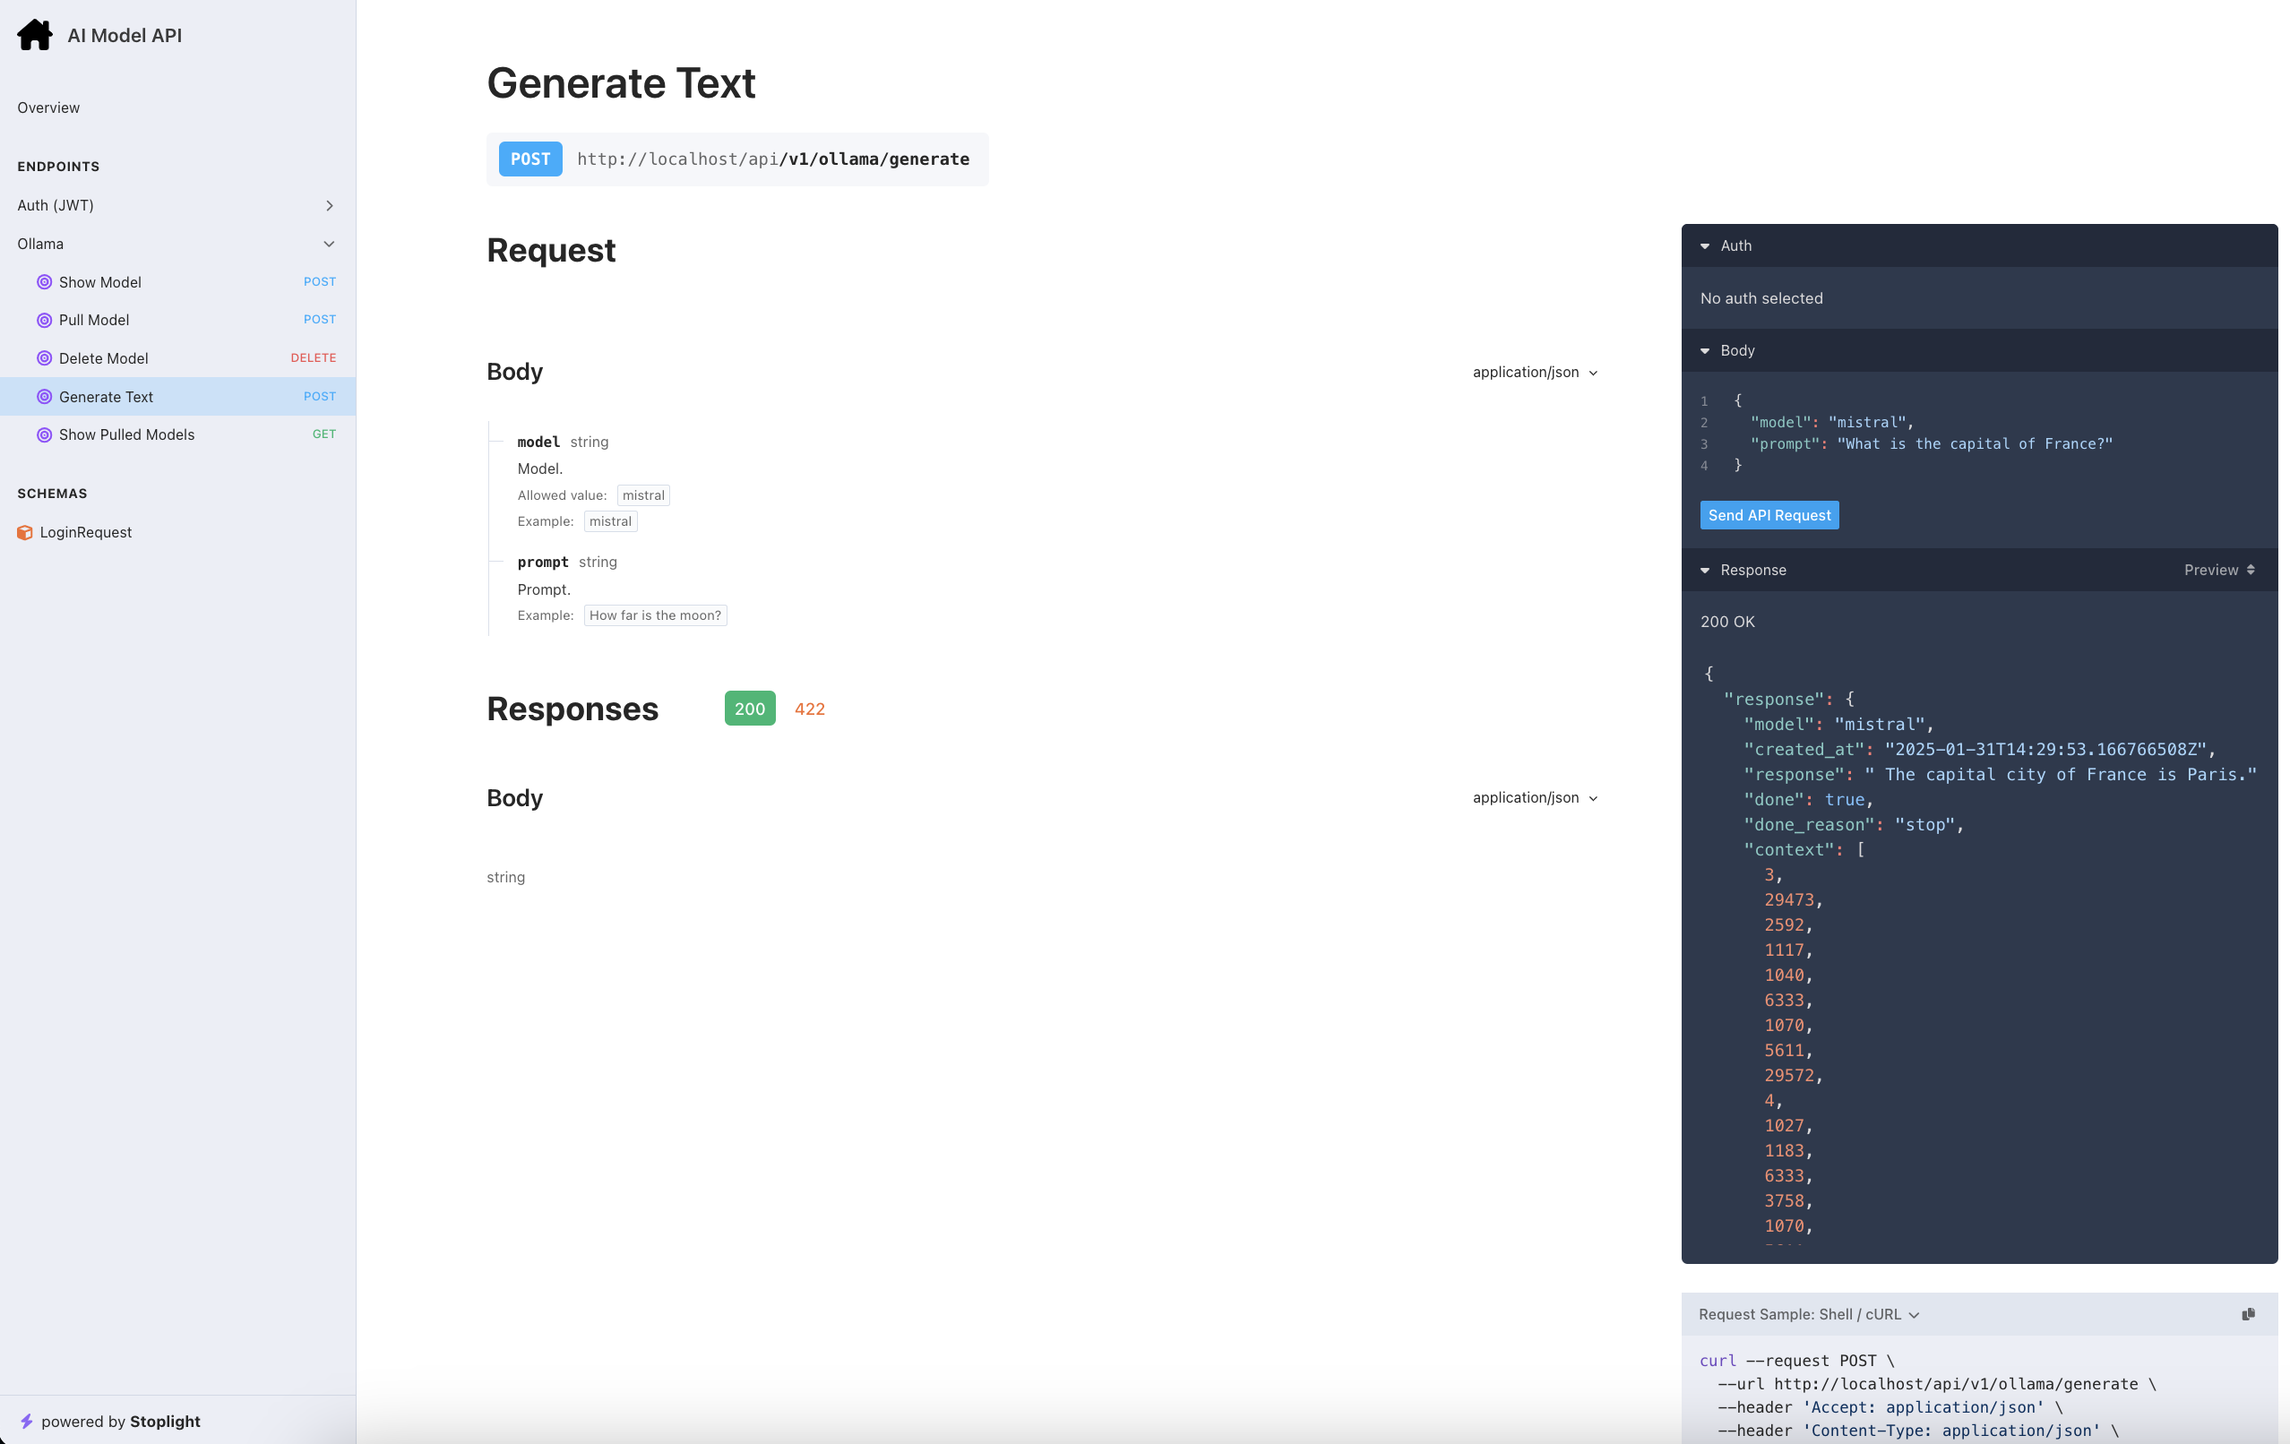
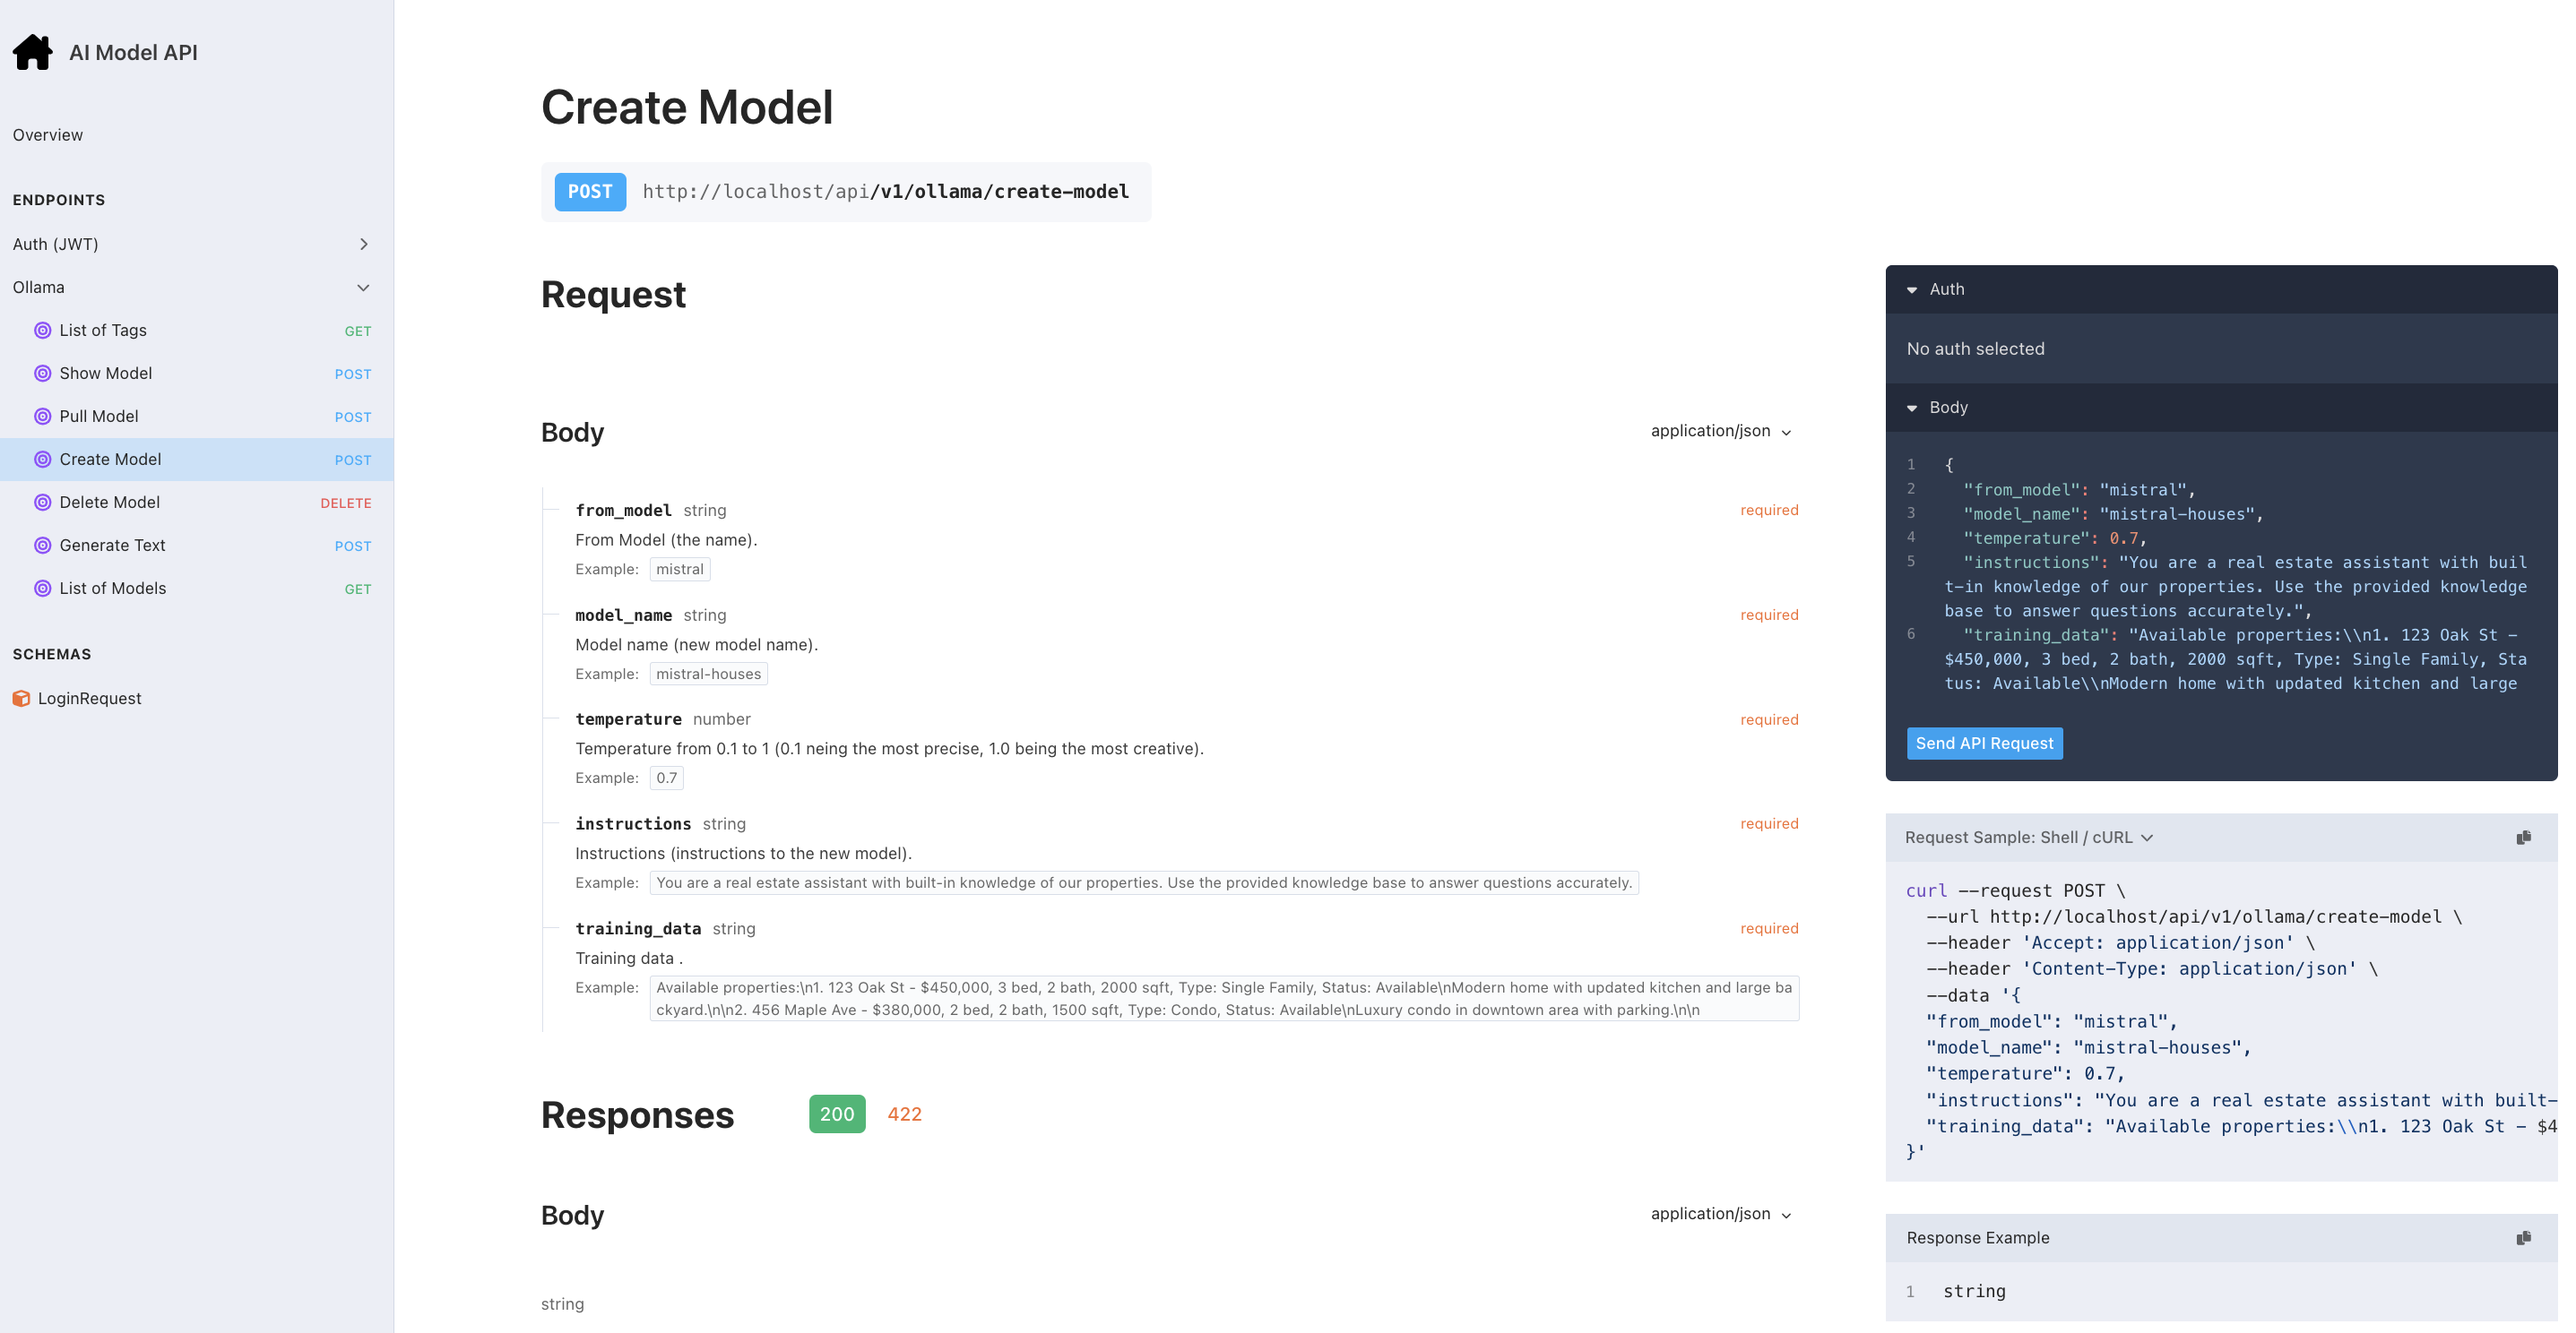
API updates for ollama

diff --git a/app/Http/Controllers/Api/v1/OllamaController.php b/app/Http/Controllers/Api/v1/OllamaController.php
@@ -9,6 +9,7 @@ use Illuminate\Http\Response;
 use App\Services\AIModelService;
 use Http;
 use Storage;
+use Symfony\Component\HttpFoundation\StreamedResponse;
 use Log;
 
 class OllamaController extends Controller
@@ -32,12 +33,19 @@ class OllamaController extends Controller
              *
              * @example mistral
              */
-            'name' => 'in:mistral',
+            'name' => 'in:'.config('ai.ollama_allowed_models'),
+
+            /**
+             * Stream the pull request.
+             *
+             * @example true
+             */
+            'stream' => 'bool',
         ]);
 
-        $this->aiModelService->pullModel(name: $request->input('name'));
-        
-        return response([])->setStatusCode(Response::HTTP_NO_CONTENT);
+        $response = $this->aiModelService->pullModel(name: $request->input('name'), stream: $request->input('stream') ? true : false);
+
+        return $response;
     }
 
     /**
@@ -81,17 +89,83 @@ class OllamaController extends Controller
         
         return response()->json($response->json())->setStatusCode($response->status());
     }
-    
 
     /**
-     * Show Pulled Models
+     * Create Model
      *
      * @unauthenticated
      */
-    public function showModels(Request $request)
+    public function createModel(Request $request)
+    {
+        $request->validate([
+            /**
+             * From Model (the name).
+             *
+             * @example mistral
+             */
+            'from_model' => 'required|string',
+
+            /**
+             * Model name (new model name).
+             *
+             * @example mistral-houses
+             */
+            'model_name' => 'required|string',
+
+            /**
+             * Temperature from 0.1 to 1 (0.1 neing the most precise, 1.0 being the most creative).
+             *
+             * @example 0.7
+             */
+            'temperature' => 'required|decimal:1|between:0.1,1',
+
+            /**
+             * Instructions (instructions to the new model).
+             *
+             * @example You are a real estate assistant with built-in knowledge of our properties. Use the provided knowledge base to answer questions accurately.
+             */
+            'instructions' => 'required|string',
+
+            /**
+             * Training data .
+             *
+             * @example Available properties:\n1. 123 Oak St - $450,000, 3 bed, 2 bath, 2000 sqft, Type: Single Family, Status: Available\nModern home with updated kitchen and large backyard.\n\n2. 456 Maple Ave - $380,000, 2 bed, 2 bath, 1500 sqft, Type: Condo, Status: Available\nLuxury condo in downtown area with parking.\n\n
+             */
+            'training_data' => 'required|string',
+        ]);
+
+        $response = $this->aiModelService->createModel(
+            fromModel: $request->input('from_model'),
+            modelName: $request->input('model_name'),
+            temperature: $request->input('temperature'),
+            system: $request->input('instructions'),
+            trainingData: $request->input('training_data')
+        );
+
+        return response()->json($response->json())->setStatusCode($response->status());
+    }
+
+    /**
+     * List of Models
+     *
+     * @unauthenticated
+     */
+    public function indexModels(Request $request)
+    {
+        $response = $this->aiModelService->models();
+     
+        return response(['response' => $response->json()])->setStatusCode($response->status());
+    }
+
+    /**
+     * List of Tags 
+     *
+     * @unauthenticated
+     */
+    public function indexTags(Request $request)
     {
        
-        $response = $this->aiModelService->models();
+        $response = $this->aiModelService->tags();
      
         return response(['response' => $response->json()])->setStatusCode($response->status());
     }
@@ -101,7 +175,7 @@ class OllamaController extends Controller
      *
      * @unauthenticated
      */
-    public function generateText(Request $request)
+    public function generateText(Request $request) : Response|StreamedResponse
     {
         $request->validate([
             /**
@@ -109,21 +183,36 @@ class OllamaController extends Controller
              *
              * @example mistral
              */
-            'model' => 'in:mistral',
+            'model' => 'required|string',
 
             /**
              * Prompt.
              *
              * @example How far is the moon?
              */
-            'prompt' => 'string',
+            'prompt' => 'required|string',
+
+            /**
+             * Stream the request.
+             *
+             * @example true
+             */
+            'stream' => 'bool',
         ]);
+
+        $stream = $request->input('stream') ? true : false;
 
         $response = $this->aiModelService->generate(
             model: $request->input('model'),
-            prompt: $request->input('prompt')
+            prompt: $request->input('prompt'),
+            stream: $stream
         );
-        
-        return response(['response' => $response->json()])->setStatusCode($response->status());
+
+        if(!$stream)
+        {
+            return response(['response' => $response->json()])->setStatusCode($response->status());
+        }
+
+        return $response;
     }
 }

diff --git a/app/Services/AIModelService.php b/app/Services/AIModelService.php
@@ -2,10 +2,11 @@
 
 namespace App\Services;
 
-// 6⃣	/api/create	Create a custom model
-// 8⃣	/api/push	Upload a model
 use Illuminate\Http\Client\Response;
 use Illuminate\Support\Facades\Http;
+use Symfony\Component\HttpFoundation\StreamedResponse;
+use Storage;
+use Log;
 
 class AIModelService
 {
@@ -14,13 +15,47 @@ class AIModelService
         $this->clientPath = config('ai.text_client_path');
     }
 
-    public function pullModel(string $name): void
+    public function pullModel(string $name, bool $stream = true): Response|StreamedResponse
     {
-        //TODO should stream, stream: true
-        $response = Http::timeout(60)->post($this->clientPath.'/api/pull', [
-            'name' => $name,
+        //if stream is disabled
+        if(!$stream)
+        {
+
+            $response = Http::timeout(60)->post($this->clientPath.'/api/pull', [
+                'name' => $name,
+                'stream' => false
+            ]);
+
+            return $response;
+        }
+
+        return $this->streamCall(fn() => Http::withOptions(['stream' => true])
+            ->post($this->clientPath.'/api/pull', ['name' => $name])
+            ->body()
+        );
+    }
+
+    /**
+     * string $name e.g. mistral-houses
+     * string $system e.g. You are a real estate assistant with built-in knowledge of our properties. Use the provided knowledge base to answer questions accurately.
+     * string $trainingData e.g. Available properties:\n1. 123 Oak St - $450,000, 3 bed, 2 bath, 2000 sqft, Type: Single Family, Status: Available\nModern home with updated kitchen and large backyard.\n\n2. 456 Maple Ave - $380,000, 2 bed, 2 bath, 1500 sqft, Type: Condo, Status: Available\nLuxury condo in downtown area with parking.\n\n
+     */
+    public function createModel(string $fromModel, string $modelName, float $temperature, string $system, string $trainingData): Response
+    {
+        $response = Http::timeout(60)->post($this->clientPath.'/api/create', [
+            'name' => $modelName,
+            'from' => $fromModel,
+            'system' => $system,
+            'template' => "{{ .System }}\n\nKnowledge Base:\n{{ .PropertyData }}\n\nQuestion: {{ .Prompt }}",
+            'parameter'=> [
+               'temperature' => $temperature,
+               'num_ctx' => 4096
+            ],
+            'propertyData'=> $trainingData,
             'stream' => false
         ]);
+
+        return $response;
     }
 
     public function deleteModel(string $name): Response
@@ -43,15 +78,28 @@ class AIModelService
         return $response;
     }
 
-    public function generate(string $model, string $prompt): Response
+    public function generate(string $model, string $prompt, bool $stream = false): Response|StreamedResponse
     {
-        $response = Http::timeout(60)->post($this->clientPath.'/api/generate', [
-            'model' => $model,
-            'prompt' => $prompt,
-            'stream' => false
-        ]);
+        if(!$stream)
+        {
+
+            $response = Http::timeout(60)->post($this->clientPath.'/api/generate', [
+                'model' => $model,
+                'prompt' => $prompt,
+                'stream' => false
+            ]);
+
+            return $response;
+        }
         
-        return $response;
+
+        return $this->streamCall(fn() => Http::withOptions(['stream' => true])
+            ->post($this->clientPath.'/api/generate', [
+                'model' => $model,
+                'prompt' => $prompt,
+            ])
+            ->body()
+        );
     }
 
     public function tags(): Response
@@ -65,6 +113,27 @@ class AIModelService
     {
         $response = Http::timeout(60)->get($this->clientPath.'/v1/models');
         
+        return $response;
+    }
+
+    private function streamCall($streamCall)
+    {
+        $response = new StreamedResponse(function () use ($streamCall) {
+            $stream = $streamCall();
+            // Read the response line by line
+            foreach (explode("\n", $stream) as $line) {
+                if (!empty($line)) {
+                    echo "data: " . $line . "\n\n";
+                    ob_flush();
+                    flush();
+                }
+            }
+        });
+
+        $response->headers->set('Content-Type', 'text/event-stream');
+        $response->headers->set('Cache-Control', 'no-cache');
+        $response->headers->set('Connection', 'keep-alive');
+
         return $response;
     }
 }

diff --git a/routes/api.php b/routes/api.php
@@ -4,9 +4,11 @@ use App\Http\Controllers\Api\v1\OllamaController;
 use Illuminate\Support\Facades\Route;
 
 Route::prefix('v1')->name('api.v1.')->group(function () {
+    Route::get('ollama/tags', [OllamaController::class, 'indexTags']);
     Route::post('ollama/show-model', [OllamaController::class, 'showModel']);
     Route::post('ollama/pull-model', [OllamaController::class, 'pullModel']);
+    Route::post('ollama/create-model', [OllamaController::class, 'createModel']);
     Route::delete('ollama/delete-model', [OllamaController::class, 'deleteModel']);
     Route::post('ollama/generate', [OllamaController::class, 'generateText']);
-    Route::get('ollama/models', [OllamaController::class, 'showModels']);
+    Route::get('ollama/models', [OllamaController::class, 'indexModels']);
 });

diff --git a/config/ai.php b/config/ai.php
@@ -2,6 +2,7 @@
 
 return [
 
-    'text_client_path' => env('AI_TEXT_CLIENT_PATH', 'http://ollama:11434')
+    'text_client_path' => env('AI_TEXT_CLIENT_PATH', 'http://ollama:11434'),
 
+    'ollama_allowed_models' => env('OLLAMA_ALLOWED_MODELS', 'mistral,distilgpt-2')
 ];

diff --git a/README.md b/README.md
@@ -8,9 +8,12 @@ This project is the backend API for interacting locally with a text AI model, in
 
 ## Setup
 
+0. Have Docker installed on your system
 1. Clone repo + composer install vendors
 2. Install Laravel Sail + in terminal in repo base `sail up -d`
 3. Prepare the DB with: `sail artisan migrate`
+
+WARNING: the AI model might use at least 12 GB of RAM, so please have more on your system.
 
 ## API Endpoints Docs
 
